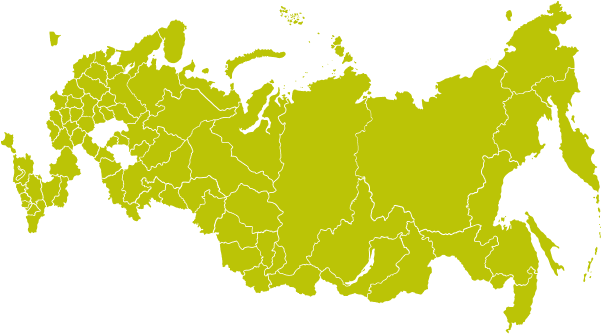
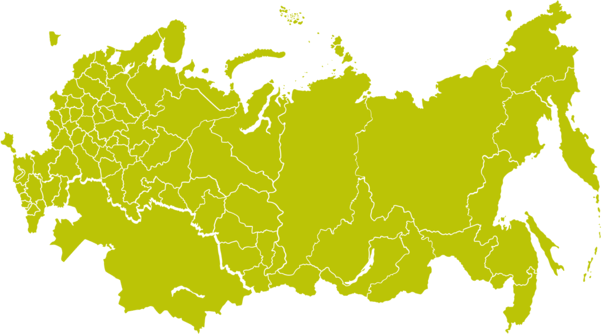
New edits for map and promo

diff --git a/src/blocks/promo/_promo.sass b/src/blocks/promo/_promo.sass
@@ -7,27 +7,30 @@
 	padding: 228px 0 271px
 
 	&--detailed
-		padding: 334px 0 237px
+		height: 100%
+		min-height: 846px
+		padding: 125px 0 25px
 		background-repeat: no-repeat
 		background-position: center
 		background-size: cover
 
-		.promo
+		.wrapper
+			height: 100%
 
+		.promo
 			&__inner
-				// display: flex
-				// align-items: center
+				display: flex
+				align-items: center
+				height: 100%
 
 	&--plasma
 		position: relative
 
 		.promo__play
-			top: calc(50%)
+			top: 50%
 			transform: translateY(-30%)
-
-		+m-min(992px)
-			padding: 237px 0
 		
+
 	&--video
 		position: relative
 
@@ -140,7 +143,7 @@
 		padding: 250px 0 150px
 
 		&--detailed
-			padding: 280px 0 180px
+			min-height: 650px
 
 		// &--video
 		// 	height: 100vh
@@ -179,7 +182,8 @@
 		padding: 142px 0 79px 
 
 		&--detailed
-			padding: 140px 0 90px
+			min-height: 450px
+			padding: 90px 0 20px
 
 		&--video
 			background-image: url('../img/promo-bg-home-lg.jpg')
@@ -210,7 +214,8 @@
 		padding: 75px 0 50px
 
 		&--detailed
-			padding: 100px 0 80px
+			padding: 50px 0 10px
+			min-height: 350px
 			
 		&__info
 			max-width: 310px	

diff --git a/src/blocks/map/map.html b/src/blocks/map/map.html
@@ -8,7 +8,7 @@
 				<picture>
 					<source srcset="img/map/map-banner-md.png" media="(max-width: 768px)">
 					<source srcset="img/map/map-banner-sm.png" media="(max-width: 400px)">
-					<img data-src="img/map/map-banner.png" class="lazyload" alt="">
+					<img data-src="img/map/map-banner-new.png" class="lazyload" alt="">
 				</picture>
 			</div>
 			<div class="map__factory">
